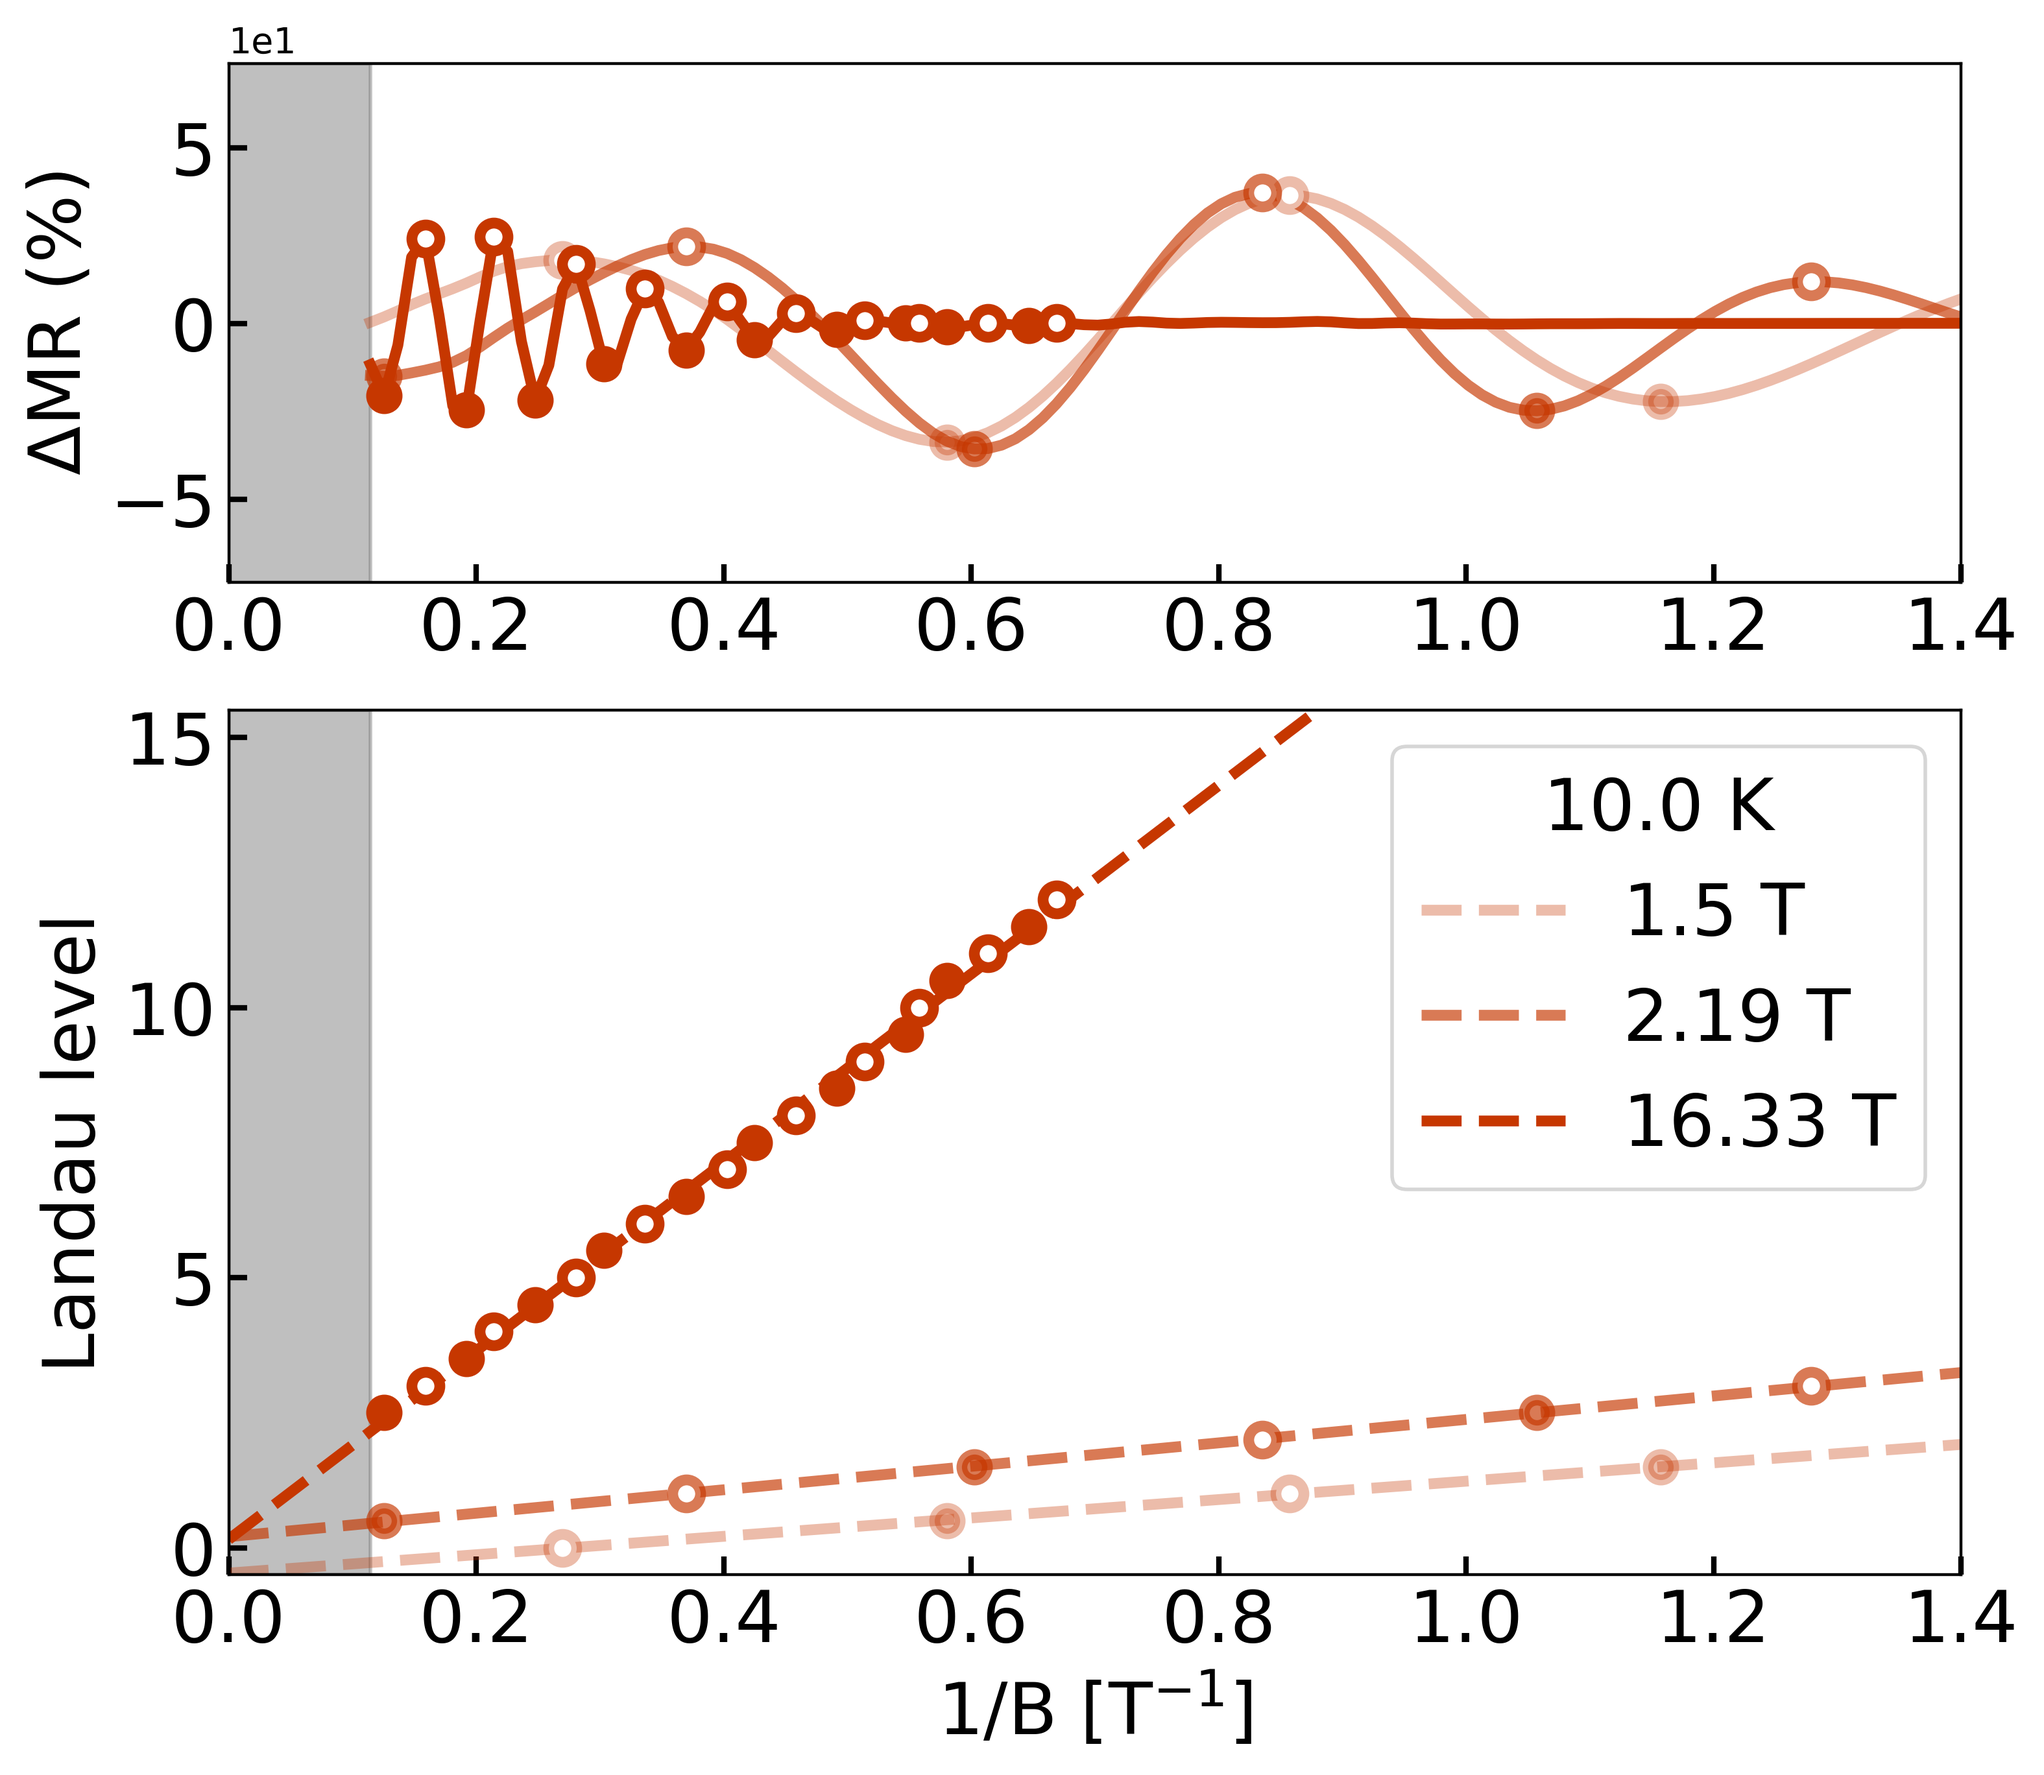
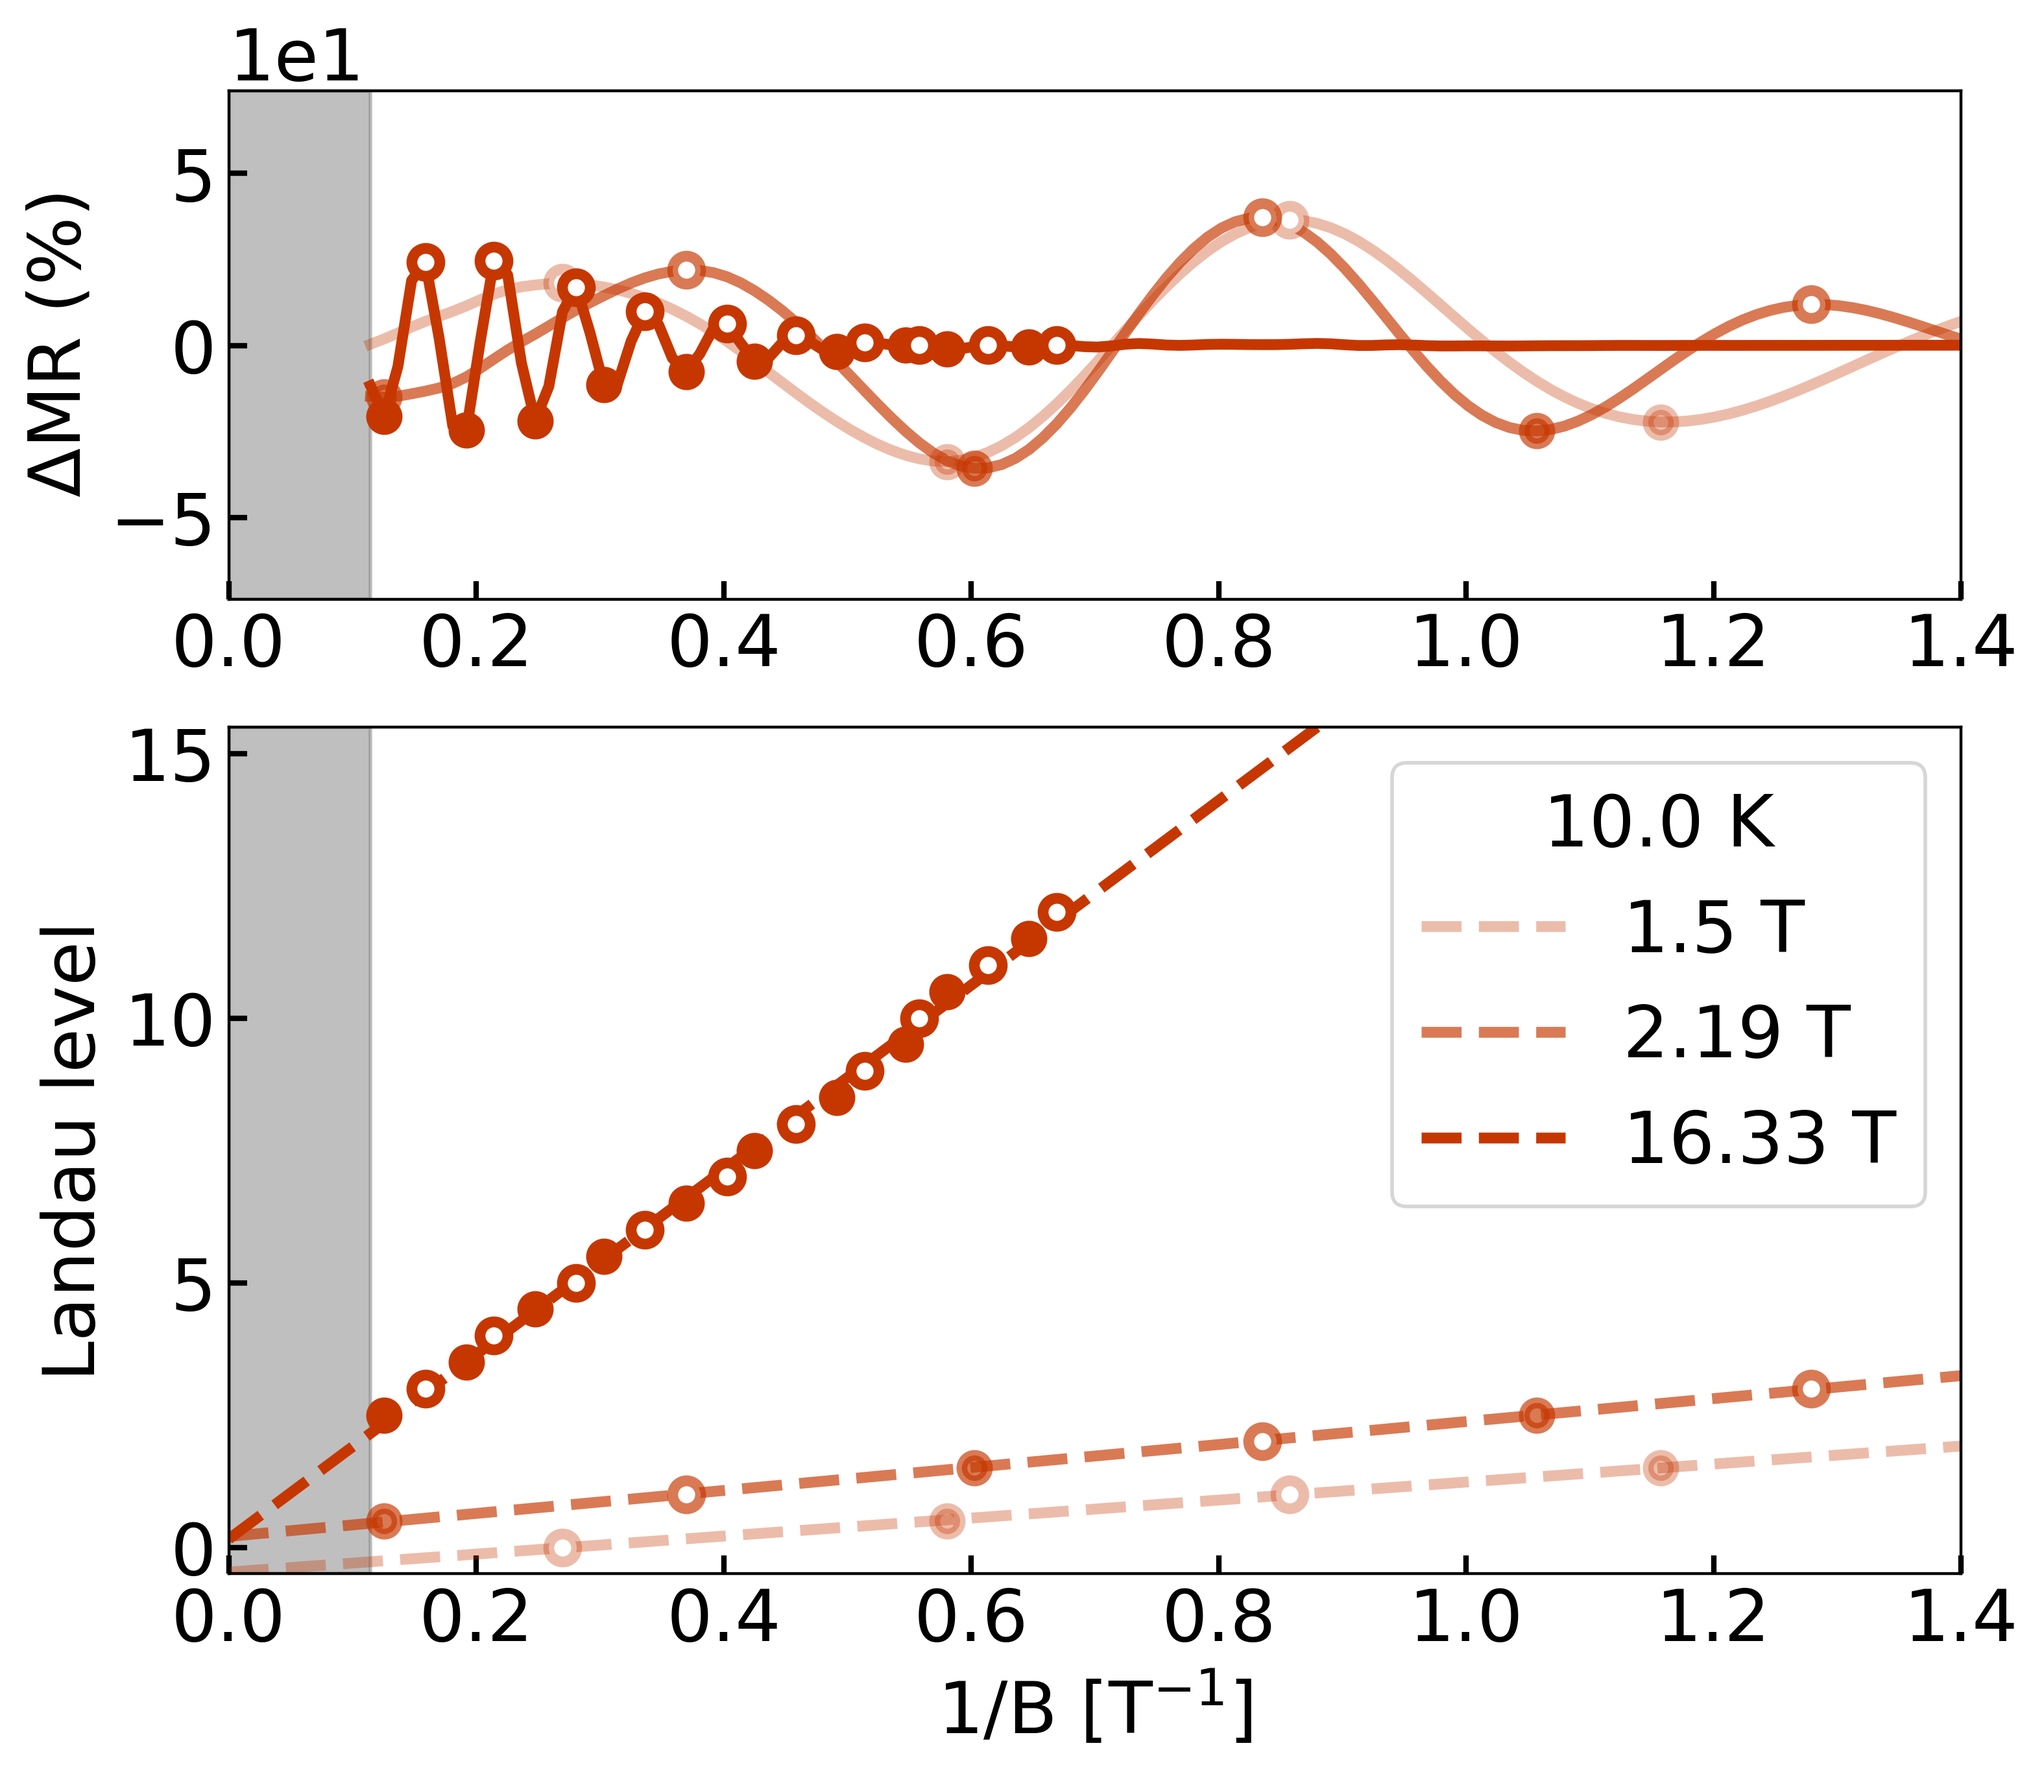
fix tick size

diff --git a/util/Landau.py b/util/Landau.py
@@ -155,6 +155,7 @@ def signal_filter(iHs, q, MR_iH_fft, qpeaks, y_widthes, T_max, resu_dir, T, subb
     ax[0].ticklabel_format(axis='y', style='sci', scilimits=(0,0))
     ax[0].locator_params(axis='y', nbins=5)
     ax[0].tick_params(which = 'both', direction = 'in', top = False, right = False, length = 5, width = 1.5, labelsize = 20)
+    ax[0].yaxis.get_offset_text().set_size(20)
 
     ax[1].set_xlabel(r'1/B [T$^{-1}$]', fontsize = 20)
     ax[1].set_xlim([0, ixplot_max])
@@ -162,6 +163,7 @@ def signal_filter(iHs, q, MR_iH_fft, qpeaks, y_widthes, T_max, resu_dir, T, subb
     ax[1].fill_between([0, np.min(iHs)], -0.5, 15.5, color = 'grey', alpha = 0.5)
     ax[1].set_ylabel('Landau level', fontsize = 20)
     ax[1].tick_params(which = 'both', direction = 'in', top = False, right = False, length = 5, width = 1.5, labelsize = 20)
+    ax[1].yaxis.get_offset_text().set_size(20)
     ax[1].legend(title = f'{T} K', title_fontsize = 20, fontsize = 20, loc = 'upper right')
 
     f.tight_layout()

diff --git a/analysis.py b/analysis.py
@@ -6,21 +6,21 @@ from util.Kohler import plot_rho, plot_MR, plot_MRK, plot_MREK
 from util.back_ground import subbg_po, subbg_pp, subbg_de
 from util.Landau import FFT, FFT_peaks, signal_filter
 
-# MR_S2
-data_file = 'D:/python_project/LandauLevel/data/MR_S2_extracted.pkl'
-resu_dir = 'D:/python_project/LandauLevel/results/MR_S2/'
-po_power = 7
-pieces = 2
-pp_power = 4
-avg_window = 10
-
-# # MR_S4
-# data_file = 'D:/python_project/LandauLevel/data/MR_S4_extracted.pkl'
-# resu_dir = 'D:/python_project/LandauLevel/results/MR_S4/'
-# po_power = 5
+# # MR_S2
+# data_file = 'D:/python_project/LandauLevel/data/MR_S2_extracted.pkl'
+# resu_dir = 'D:/python_project/LandauLevel/results/MR_S2/'
+# po_power = 7
 # pieces = 2
-# pp_power = 3
+# pp_power = 4
 # avg_window = 10
+
+# MR_S4
+data_file = 'D:/python_project/LandauLevel/data/MR_S4_extracted.pkl'
+resu_dir = 'D:/python_project/LandauLevel/results/MR_S4/'
+po_power = 5
+pieces = 2
+pp_power = 3
+avg_window = 10
 
 
 # select background options
